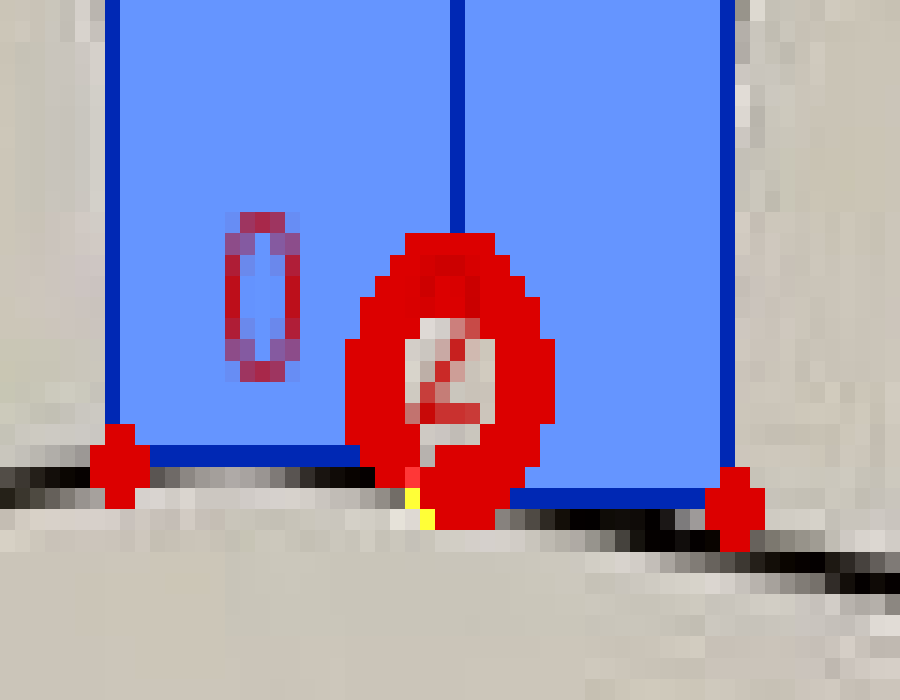
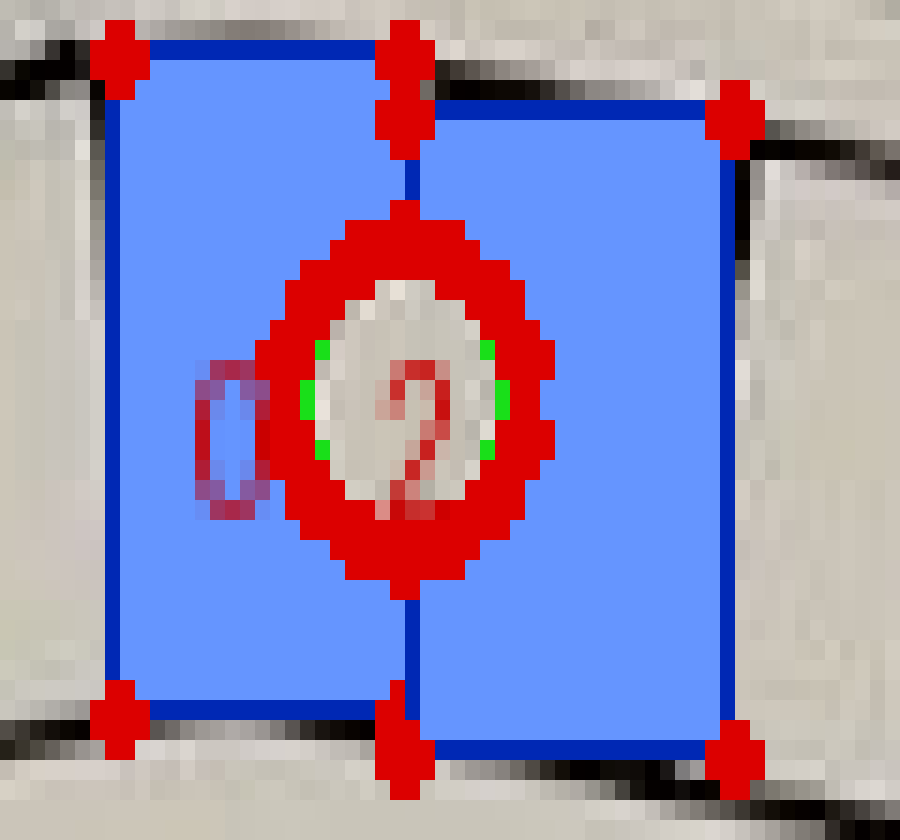
refit: update lots 0 and 2 in lot plan polygons to exclude mid-divider sketch circle

diff --git a/scratch/refit_0_2_circle.py b/scratch/refit_0_2_circle.py
@@ -1,4 +1,4 @@
-"""Trace and refit lots 0 and 2 — circle notch at BOTTOM inner junction."""
+"""Trace and refit lots 0 and 2 — exclude mid-divider sketch circle."""
 import json
 import math
 import shutil
@@ -26,10 +26,10 @@ fillable = ((gray >= 145) & (gray <= 210)).astype(np.uint8) * 255
 fillable = cv2.bitwise_and(fillable, cv2.bitwise_not(ink))
 
 best = None
-for r_try in (4.5, 5.0, 5.5, 6.0, 6.5):
-    for cy in range(37, 43):
-        for cx in range(652, 658):
-            ang = np.linspace(0, 2 * math.pi, 40, endpoint=False)
+for r_try in (6.0, 6.5, 7.0, 7.5, 8.0):
+    for cy in range(24, 33):
+        for cx in range(649, 656):
+            ang = np.linspace(0, 2 * math.pi, 48, endpoint=False)
             ring = np.array(
                 [
                     gray[
@@ -40,14 +40,14 @@ for r_try in (4.5, 5.0, 5.5, 6.0, 6.5):
                 ]
             )
             ring_m = float(ring.mean())
-            if ring_m > 125:
-                continue
             core = float(gray[cy, cx])
+            if ring_m > 105 or core < 150:
+                continue
             score = core - ring_m
             if best is None or score > best[0]:
                 best = (score, cx, cy, r_try)
 CX, CY, R = float(best[1]), float(best[2]), float(best[3])
-R_ARC = R + 0.4
+R_ARC = R + 0.35
 print("circle", CX, CY, "R", R, "R_ARC", R_ARC, "score", round(best[0], 1))
 
 LOTS = {
@@ -105,14 +105,6 @@ def arc_pts_cw(a1: float, a2: float, n: int = 8) -> list[np.ndarray]:
     ]
 
 
-def bottom_circle_x(y: float, side: str) -> float:
-    dy = y - CY
-    if abs(dy) >= R_ARC:
-        return CX
-    dx = math.sqrt(R_ARC * R_ARC - dy * dy)
-    return (CX - dx) if side == "left" else (CX + dx)
-
-
 def push_out(xy: np.ndarray) -> np.ndarray:
     out: list[np.ndarray] = []
     n = len(xy)
@@ -133,10 +125,9 @@ def push_out(xy: np.ndarray) -> np.ndarray:
 
 
 def polygon_for(side: str, x0: float, y0: float, x1: float, y1: float) -> np.ndarray:
-    """CW polygon — straight top, circle notch at bottom inner corner on divider."""
-    x_bot = bottom_circle_x(y1, side)
-    a_bot = math.atan2(y1 - CY, x_bot - CX)
-    a_top = -math.pi / 2  # top of circle on divider (CX, CY - R)
+    """CW polygon — straight outer edges, circle cutout on shared divider."""
+    a_top = -math.pi / 2
+    a_bot = math.pi / 2
 
     if side == "left":
         pts: list[np.ndarray] = [
@@ -145,6 +136,7 @@ def polygon_for(side: str, x0: float, y0: float, x1: float, y1: float) -> np.nda
             np.array([CX, CY - R_ARC]),
         ]
         pts.extend(arc_pts_cw(a_top, a_bot)[1:])
+        pts.append(np.array([CX, y1]))
         pts.append(np.array([x0, y1]))
     else:
         pts = [
@@ -153,6 +145,7 @@ def polygon_for(side: str, x0: float, y0: float, x1: float, y1: float) -> np.nda
             np.array([CX, CY - R_ARC]),
         ]
         pts.extend(arc_pts(a_top, a_bot)[1:])
+        pts.append(np.array([CX, y1]))
         pts.append(np.array([x1, y1]))
     return np.array(pts, float)
 
@@ -229,8 +222,7 @@ POLY.write_text(json.dumps(data, indent=2), encoding="utf-8")
 
 vis = Image.fromarray(rgb.copy()).convert("RGBA")
 dr = ImageDraw.Draw(vis, "RGBA")
-dr.ellipse([CX - R, CY - R, CX + R, CY + R], outline=(255, 0, 0, 200), width=1)
-dr.ellipse([CX - 6, CY - 6, CX + 6, CY + 6], outline=(255, 255, 0, 200), width=1)
+dr.ellipse([CX - R, CY - R, CX + R, CY + R], outline=(0, 220, 0, 230), width=2)
 for i in IDS:
     L = lots[i]
     pts = [(p[0] * W, p[1] * H) for p in L["points"]]
@@ -238,7 +230,7 @@ for i in IDS:
     for x, y in pts:
         dr.ellipse([x - 1.5, y - 1.5, x + 1.5, y + 1.5], fill=(220, 0, 0, 255))
     dr.text((L["cx"] * W - 8, L["cy"] * H - 4), str(i), fill=(200, 0, 0, 255))
-vis.crop((625, 22, 685, 55)).resize((900, 700), Image.NEAREST).save("scratch/fix_0_2_circle_cut.png")
+vis.crop((625, 8, 685, 50)).resize((900, 840), Image.NEAREST).save("scratch/fix_0_2_circle_cut.png")
 
 ov = Path("scratch/lot_plan_all_indices.png")
 vis2 = Image.fromarray(rgb.copy()).convert("RGBA")
